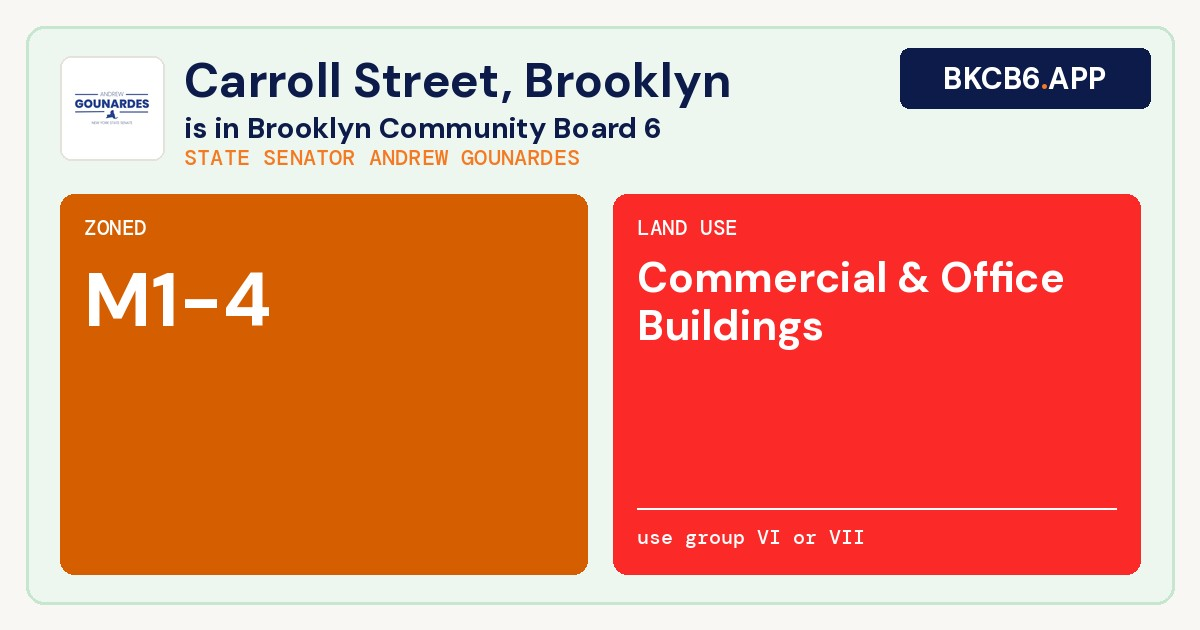
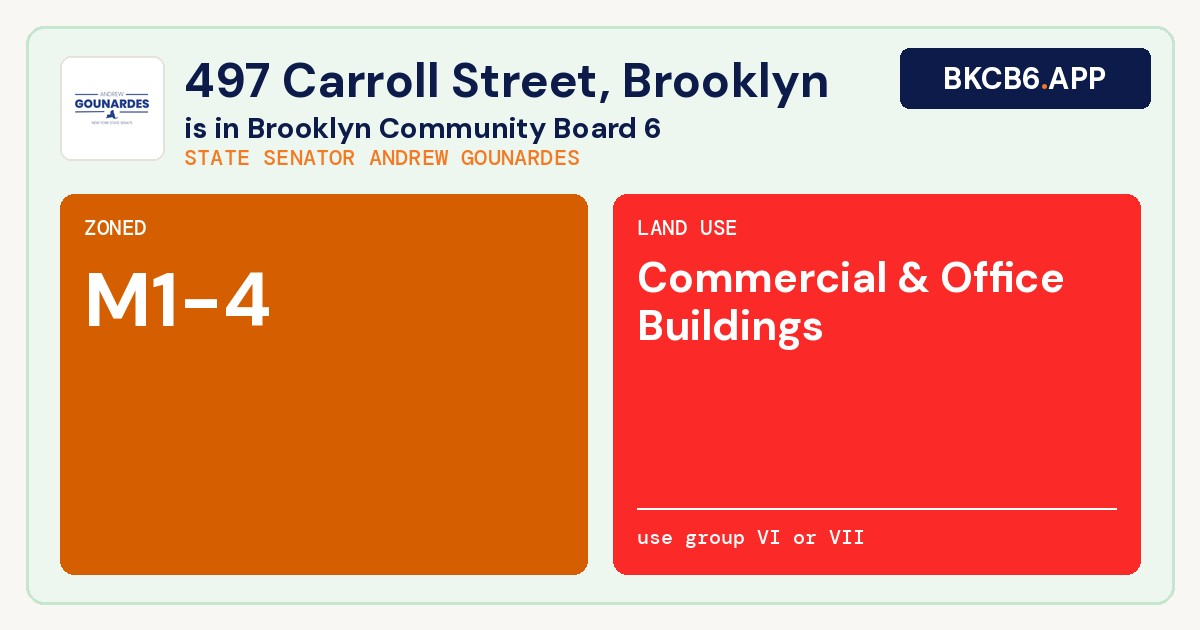
senate district 26: use the street address, not the lot record with no house number

Changed region(s): [[0.1542, 0.0905, 0.7092, 0.181]]

diff --git a/senate-district-26/index.html b/senate-district-26/index.html
@@ -3,23 +3,23 @@
 <head>
 <meta charset="UTF-8">
 <meta name="viewport" content="width=device-width,initial-scale=1">
-<title>State Senator Andrew Gounardes district office, Carroll Street &mdash; bkcb6.app</title>
-<meta name="description" content="The district office of State Senator Andrew Gounardes at Carroll Street, Suite 31 in Brooklyn. The full lot record: zoning, land use, ownership, DOB NOW filings and every district line.">
+<title>State Senator Andrew Gounardes district office, 497 Carroll Street &mdash; bkcb6.app</title>
+<meta name="description" content="The district office of State Senator Andrew Gounardes at 497 Carroll Street, Suite 31 in Brooklyn. The full lot record: zoning, land use, ownership, DOB NOW filings and every district line.">
 <link rel="canonical" href="https://bkcb6.app/senate-district-26">
 <meta property="og:site_name" content="Brooklyn Community Board 6">
 <meta property="og:type" content="website">
-<meta property="og:title" content="State Senator Andrew Gounardes &middot; Carroll Street">
-<meta property="og:description" content="The district office of State Senator Andrew Gounardes at Carroll Street, Suite 31 in Brooklyn. The full lot record: zoning, land use, ownership, DOB NOW filings and every district line.">
+<meta property="og:title" content="State Senator Andrew Gounardes &middot; 497 Carroll Street">
+<meta property="og:description" content="The district office of State Senator Andrew Gounardes at 497 Carroll Street, Suite 31 in Brooklyn. The full lot record: zoning, land use, ownership, DOB NOW filings and every district line.">
 <meta property="og:url" content="https://bkcb6.app/senate-district-26">
-<meta property="og:image" content="https://bkcb6.app/og/senate/sd26.jpg?v=1">
-<meta property="og:image:secure_url" content="https://bkcb6.app/og/senate/sd26.jpg?v=1">
+<meta property="og:image" content="https://bkcb6.app/og/senate/sd26.jpg?v=2">
+<meta property="og:image:secure_url" content="https://bkcb6.app/og/senate/sd26.jpg?v=2">
 <meta property="og:image:type" content="image/jpeg">
 <meta property="og:image:width" content="1200"><meta property="og:image:height" content="630">
-<meta property="og:image:alt" content="State Senator Andrew Gounardes district office, Carroll Street, Brooklyn">
+<meta property="og:image:alt" content="State Senator Andrew Gounardes district office, 497 Carroll Street, Brooklyn">
 <meta name="twitter:card" content="summary_large_image">
-<meta name="twitter:title" content="State Senator Andrew Gounardes &middot; Carroll Street">
-<meta name="twitter:description" content="The district office of State Senator Andrew Gounardes at Carroll Street, Suite 31 in Brooklyn. The full lot record: zoning, land use, ownership, DOB NOW filings and every district line.">
-<meta name="twitter:image" content="https://bkcb6.app/og/senate/sd26.jpg?v=1">
+<meta name="twitter:title" content="State Senator Andrew Gounardes &middot; 497 Carroll Street">
+<meta name="twitter:description" content="The district office of State Senator Andrew Gounardes at 497 Carroll Street, Suite 31 in Brooklyn. The full lot record: zoning, land use, ownership, DOB NOW filings and every district line.">
+<meta name="twitter:image" content="https://bkcb6.app/og/senate/sd26.jpg?v=2">
 <link rel="stylesheet" href="https://unpkg.com/leaflet@1.9.4/dist/leaflet.css"/>
 <script src="https://unpkg.com/leaflet@1.9.4/dist/leaflet.js"></script>
 <link rel="preconnect" href="https://fonts.googleapis.com">
@@ -85,8 +85,8 @@ body{margin:0;background:var(--off);font-family:'DM Sans',system-ui,sans-serif;c
 <div class="vwrap">
   <div class="vhead">
     <div class="vcrumb"><a href="/">bkcb6.app</a> &middot; <a href="/citywide-search.html">Address search</a></div>
-    <h1>Carroll <span>Street</span></h1>
-    <div class="vsub">Carroll Street, Suite 31, Brooklyn, NY 11215 &middot; State Senator Andrew Gounardes</div>
+    <h1>497 <span>Carroll Street</span></h1>
+    <div class="vsub">497 Carroll Street, Suite 31, Brooklyn, NY 11215 &middot; State Senator Andrew Gounardes</div>
   </div>
 
   <div class="vcard">
@@ -115,7 +115,7 @@ body{margin:0;background:var(--off);font-family:'DM Sans',system-ui,sans-serif;c
 <script src="/assets/citywide-full-profile-search.js?v=20260826-senate"></script>
 <script>
 (function(){
-  var ADDR = "CARROLL STREET, Brooklyn";
+  var ADDR = "497 Carroll Street, Brooklyn";
   function run(){
     var input = document.getElementById('citywide-borough-address-input');
     var btn = document.getElementById('citywide-borough-address-search-btn');
